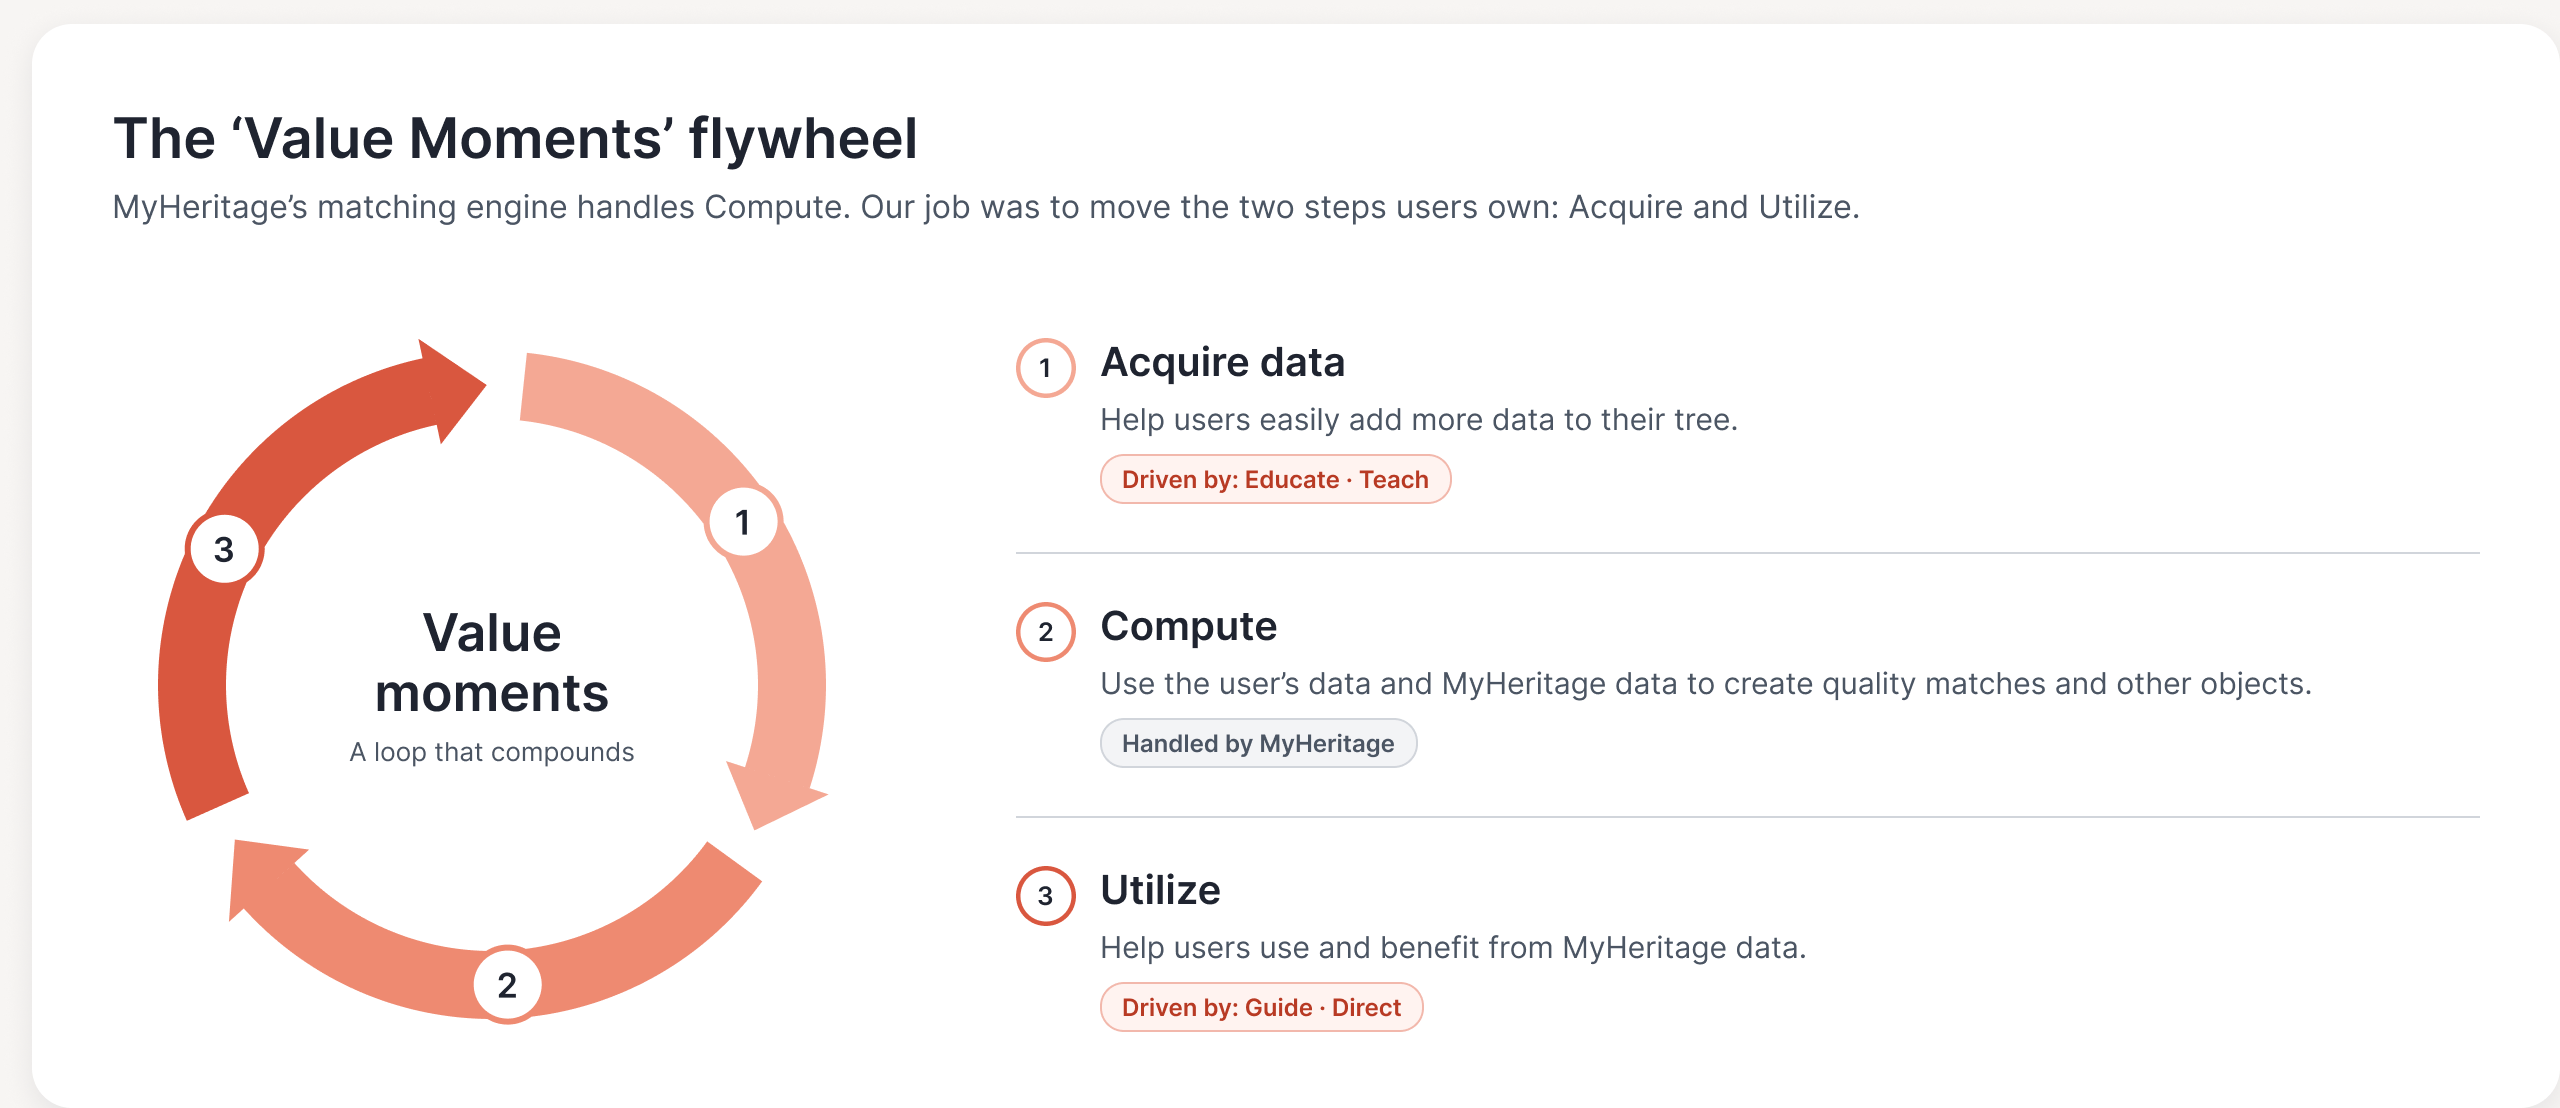
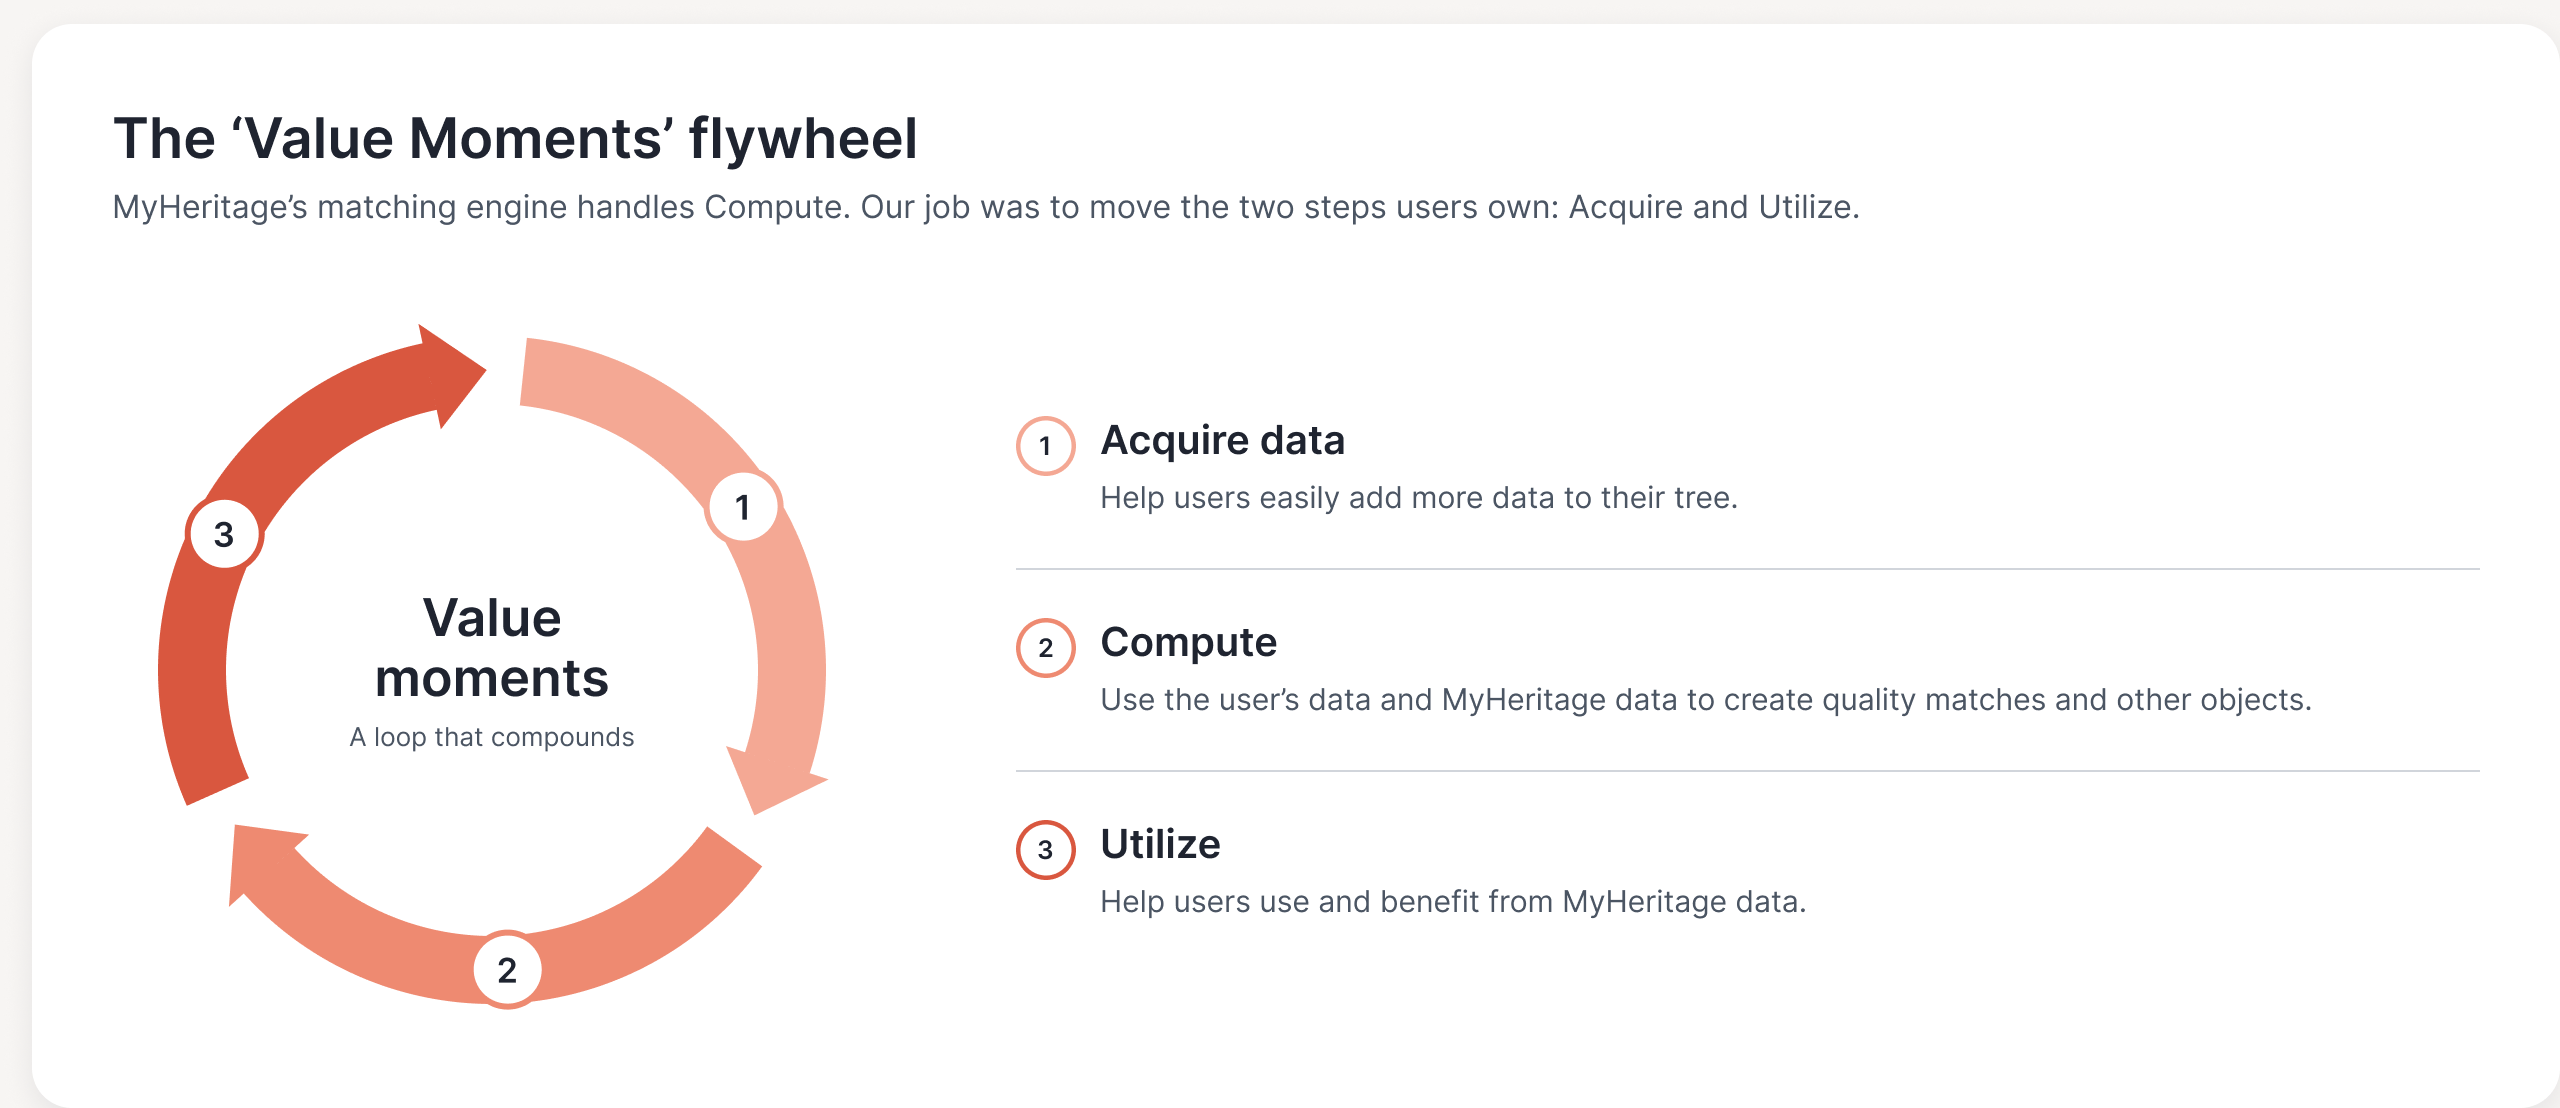
Update the Checklist funnel and flywheel from Figma
Claude-Session: https://claude.ai/code/session_01RtyWztGfd7GikxGryiffnU

diff --git a/site/yael-portfolio/scripts/projects.js b/site/yael-portfolio/scripts/projects.js
@@ -166,7 +166,7 @@ window.PROJECTS = [
         lineBelow: true,
         sections: [
           { media: { src: 'assets/images/checklist/flywheel.png', wide: true, bare: true,
-                     alt: 'The Value Moments flywheel: a loop of three steps. 1, Acquire data: help users easily add more data to their tree, driven by Educate and Teach. 2, Compute: use the user’s data and MyHeritage data to create quality matches, handled by MyHeritage. 3, Utilize: help users use and benefit from MyHeritage data, driven by Guide and Direct. MyHeritage’s matching engine handles Compute; our job was to move the two steps users own.' } },
+                     alt: 'The Value Moments flywheel, a loop that compounds, in three steps. 1, Acquire data: help users easily add more data to their tree. 2, Compute: use the user’s data and MyHeritage data to create quality matches and other objects. 3, Utilize: help users use and benefit from MyHeritage data. MyHeritage’s matching engine handles Compute; our job was to move the two steps users own: Acquire and Utilize.' } },
           { title: 'Four ideas to get the wheel turning',
             boldLead: true,
             points: [{ text: 'Educate. Show users that the more they add, relatives and facts, the more valuable matches they get.', tag: 'Drives step 1 · Acquire data' },
